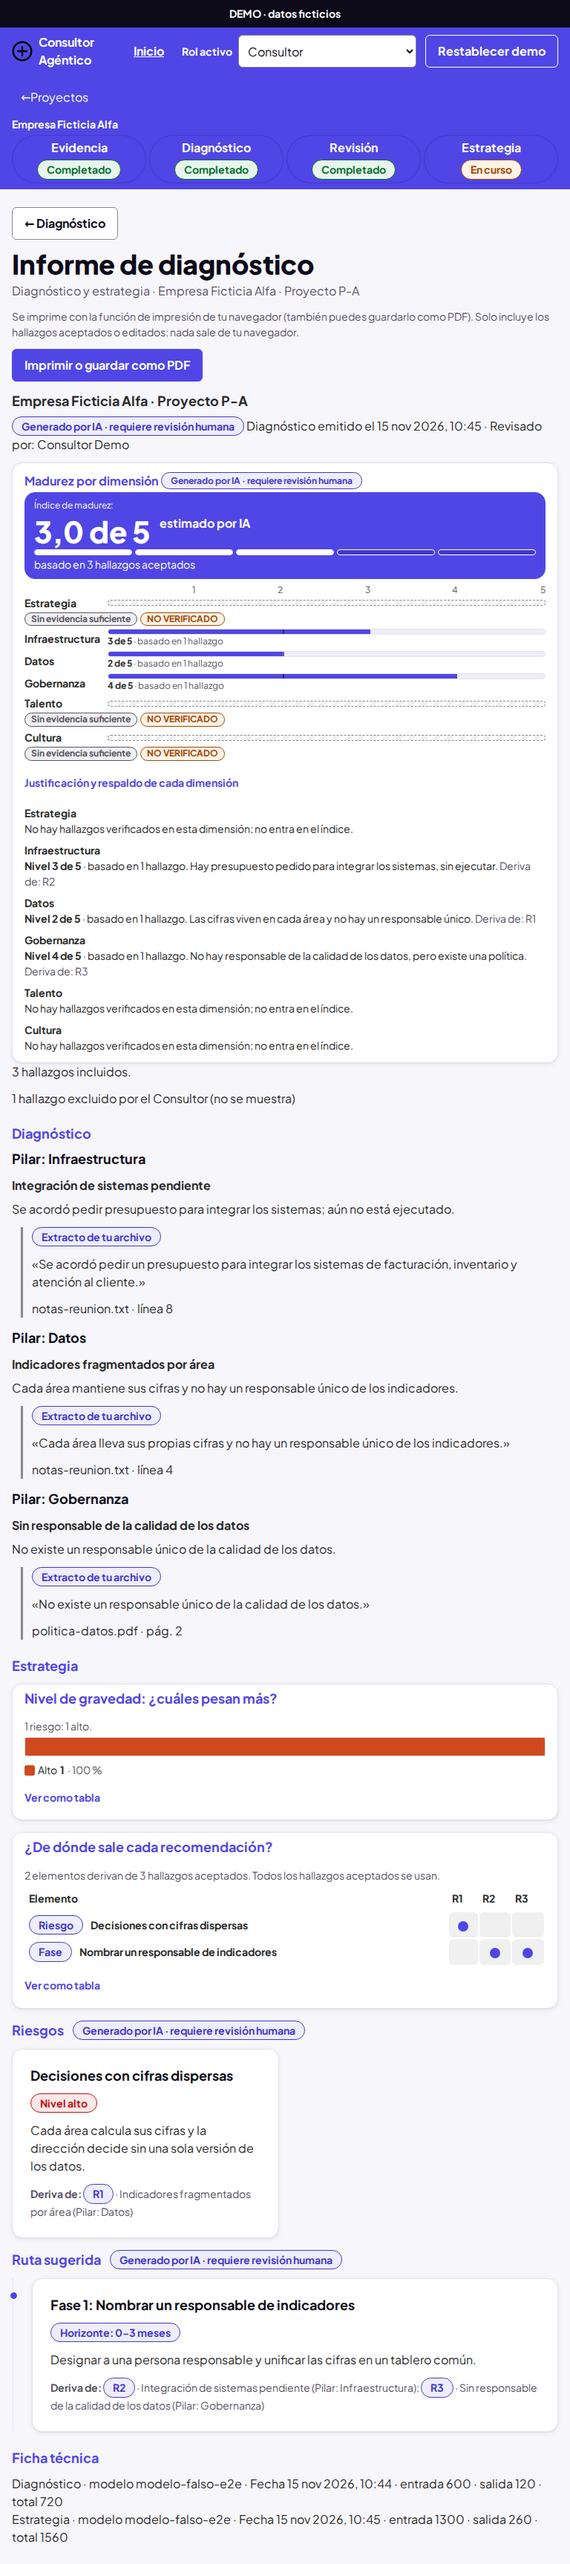
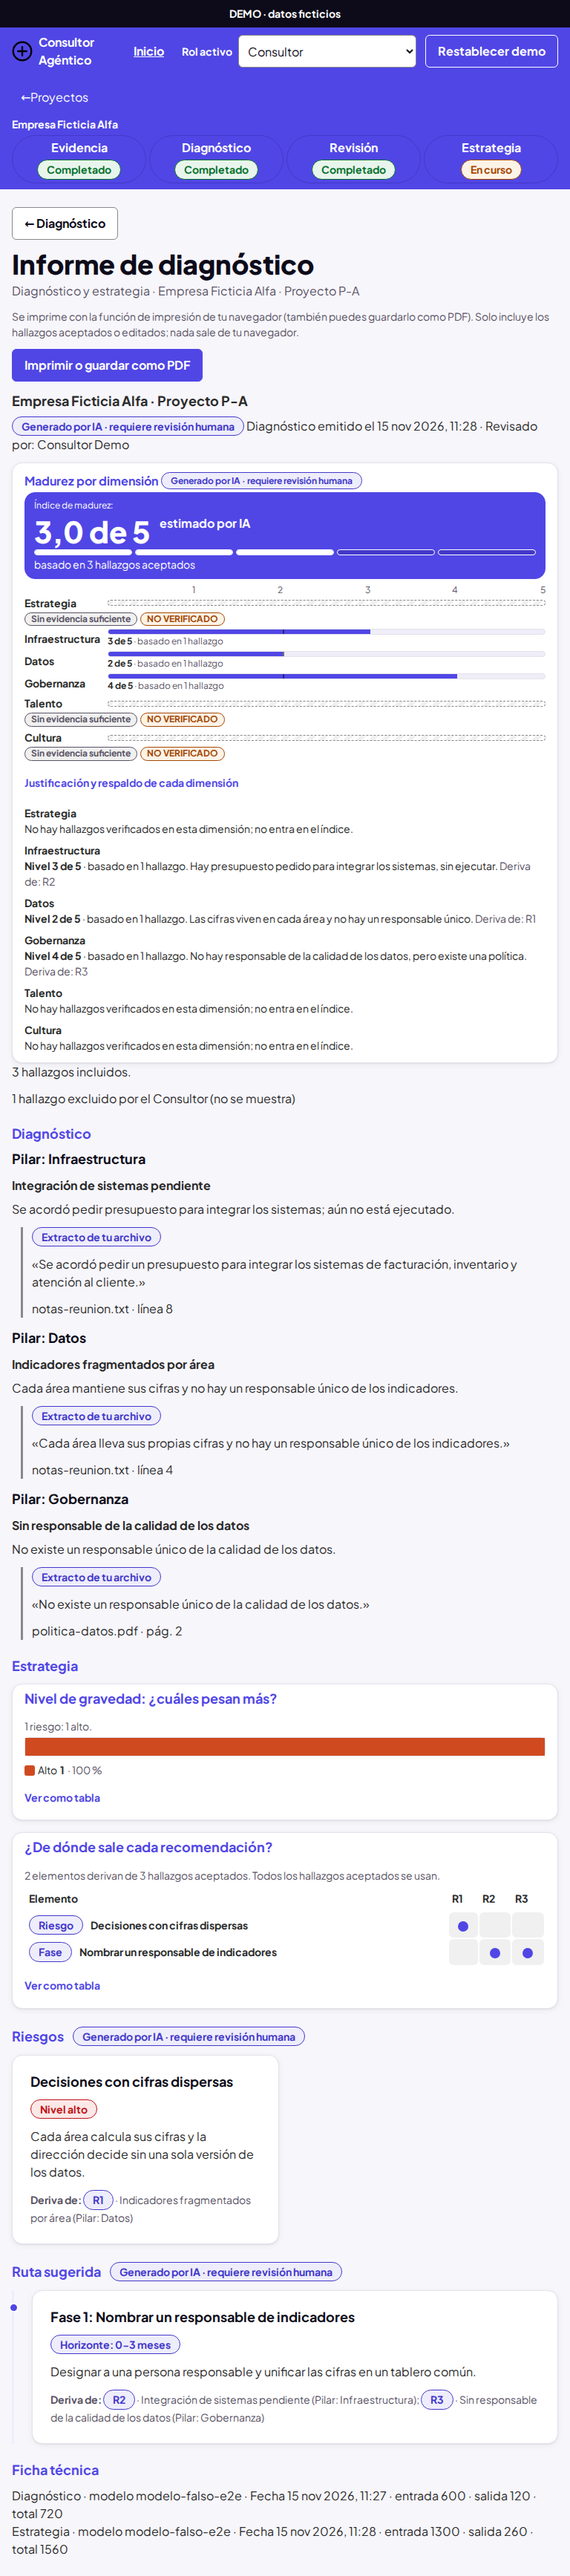
style: ritmo vertical entre bloques y correcciones de revisión de H3

diff --git a/tests/e2e/ia-real-h3espacio.spec.ts b/tests/e2e/ia-real-h3espacio.spec.ts
@@ -1,0 +1,78 @@
+// Micro-lote H3-espacio: el espacio vertical entre bloques apilados nunca baja de 12 px (a 1280). Servicio en modo FALSO.
+import { writeFileSync } from 'node:fs';
+import { expect, test, type Page } from '@playwright/test';
+import { abrir, generarDiagnosticoReal, vaciarServicio } from './helpers/real';
+
+const card = (page: Page, id: string) => page.getByTestId(`finding-${id}`);
+
+/** Bloques visibles (tarjetas, gráficos, cifras y secciones con encabezado) que no están dentro de otro bloque; para cada uno,
+ *  el hueco hasta el bloque siguiente de su misma columna. */
+async function huecos(page: Page) {
+  return page.evaluate(() => {
+    const SEL = '.main .card, .main .chart, .main .review-stats .stats-row, .main .review-stats > .chart, .main .maturity-detail, .main details, .main .pillar-flow > section, .main [data-testid="trace-view"]';
+    const todos = [...document.querySelectorAll(SEL)].filter((e) => {
+      const r = e.getBoundingClientRect();
+      return r.height > 8 && r.width > 40 && !e.closest('.visually-hidden') && getComputedStyle(e).position !== 'absolute';
+    });
+    const bloques = todos.filter((e) => !todos.some((o) => o !== e && o.contains(e)));
+    const nombre = (e: Element) => (e.getAttribute('data-testid') || e.getAttribute('aria-label') || e.className || e.tagName).toString().slice(0, 32);
+    const out: { a: string; b: string; hueco: number }[] = [];
+    for (const a of bloques) {
+      const ra = a.getBoundingClientRect();
+      let mejor: { b: Element; d: number } | null = null;
+      for (const b of bloques) {
+        if (b === a) continue;
+        const rb = b.getBoundingClientRect();
+        const mismaColumna = ra.left < rb.right - 1 && rb.left < ra.right - 1;
+        const d = rb.top - ra.bottom;
+        if (mismaColumna && d >= -1 && (!mejor || d < mejor.d)) mejor = { b, d };
+      }
+      if (mejor) out.push({ a: nombre(a), b: nombre(mejor.b), hueco: Math.round(mejor.d * 10) / 10 });
+    }
+    return out;
+  });
+}
+
+test.beforeEach(async ({ request }) => {
+  await vaciarServicio(request, 'P-A');
+});
+
+async function aEstrategia(page: Page) {
+  await abrir(page, 'P-A', 'revision');
+  for (const id of ['R1', 'R2', 'R3']) await card(page, id).getByRole('button', { name: /^Aceptar/ }).click();
+  await card(page, 'R4').getByRole('button', { name: /^Rechazar/ }).click();
+  await page.getByRole('button', { name: 'Aprobar y emitir' }).click();
+  await page.getByRole('button', { name: 'Sí, aprobar y emitir' }).click();
+  await abrir(page, 'P-A', 'estrategia');
+  await page.getByRole('button', { name: 'Generar estrategia' }).click();
+  await page.getByTestId('strategy-content').waitFor({ timeout: 30_000 });
+}
+
+test('ritmo vertical: entre bloques apilados hay al menos 12 px (Diagnóstico, Revisión y Estrategia a 1280)', async ({ page }) => {
+  await page.setViewportSize({ width: 1280, height: 900 });
+  await generarDiagnosticoReal(page);
+  const pantallas: Record<string, Awaited<ReturnType<typeof huecos>>> = {};
+  pantallas.diagnostico = await huecos(page);
+  await abrir(page, 'P-A', 'revision');
+  await card(page, 'R1').waitFor();
+  pantallas.revision = await huecos(page);
+  await aEstrategia(page);
+  pantallas.estrategia = await huecos(page);
+  for (const [nombre, l] of Object.entries(pantallas)) {
+    expect(l.length, `${nombre}: se midió algún par de bloques`).toBeGreaterThan(0);
+    const malos = l.filter((x) => x.hueco < 12);
+    expect(malos, `${nombre}: bloques pegados (< 12 px): ${JSON.stringify(l)}`).toEqual([]);
+  }
+});
+
+test('la altura de Revisión a 1280 sigue dentro del criterio 1 de H3 (≤ 1877 px)', async ({ page }) => {
+  await page.setViewportSize({ width: 1280, height: 900 });
+  await generarDiagnosticoReal(page);
+  await abrir(page, 'P-A', 'revision');
+  await card(page, 'R1').waitFor();
+  await page.waitForTimeout(200);
+  const alto = await page.evaluate(() => document.documentElement.scrollHeight);
+  const l = await huecos(page);
+  writeFileSync(`docs/evidencia/h3espacio-medidas${process.env.H3_ANTES ? '-antes' : ''}.json`, JSON.stringify({ alturaRevision1280: alto, huecosRevision: l }, null, 2));
+  expect(alto, `altura de Revisión a 1280: ${alto}`).toBeLessThanOrEqual(1877);
+});

diff --git a/src/styles/h3.css b/src/styles/h3.css
@@ -63,7 +63,7 @@
 
 /* ---------- Cifras compactas ---------- */
 .review-stats .stats-row { grid-template-columns: repeat(auto-fit, minmax(5.5rem, 1fr)); gap: var(--space-2); }
-.review-stats .stat { padding: var(--space-2); }
+.review-stats .stat { padding: var(--space-1) var(--space-2); }
 .review-stats .stat-label { font-size: var(--font-size-xs); }
 
 /* ---------- Gráficos ---------- */
@@ -258,7 +258,8 @@
 .trace-grid { gap: var(--space-4); }
 @media (min-width: 640px) { .trace-grid { grid-template-columns: minmax(0, 3fr) minmax(0, 2fr); } }
 @media (max-width: 479px) { .trace-bars .ranked-row { grid-template-columns: minmax(0, 1fr) 2.5rem; } }
-.trace-bars .ranked-row { grid-template-columns: minmax(0, 1fr) 2.5rem; row-gap: 0; margin-bottom: var(--space-2); }
+.trace-bars { align-content: start; }
+.trace-bars .ranked-row { grid-template-columns: minmax(0, 1fr) 2.5rem; row-gap: 0; margin-bottom: var(--space-2); align-content: start; }
 .trace-bars .ranked-name { grid-column: 1 / -1; white-space: nowrap; overflow: hidden; text-overflow: ellipsis; }
 .trace-bars .ranked-name { overflow-wrap: normal; word-break: normal; }
 .trace-figures { display: grid; gap: var(--space-3); align-content: start; padding-left: var(--space-4); border-left: 1px solid var(--color-border-subtle); }
@@ -271,3 +272,16 @@
 .dots th .badge { margin-inline-end: var(--space-2); }
 /* La cola muestra como máximo 3 tarjetas y un enlace a todas; no hay desplazamiento interno */
 @media (min-width: 1024px) { .dash-split { align-items: start; } }
+
+/* ---------- H3-espacio: ritmo vertical único ---------- */
+/* Una sola regla para las zonas: 16 px entre bloques; 24 px antes de una sección. Sustituye a los huecos sueltos de cada pantalla. */
+.split-main, .split-side, .stack, .review-stats, [data-testid='strategy-content'], .strategy-charts { display: grid; row-gap: var(--rhythm-block); }
+.review-stats .stats-row { margin: 0; }
+.split-main > :is(section, .pillar-flow), .stack > :is(section, .pillar-flow), [data-testid='strategy-content'] > section { margin-top: calc(var(--rhythm-section) - var(--rhythm-block)); }
+/* Cuerpo de las pantallas que cuelga directamente de <main> (Estrategia, Informe): un bloque tras otro */
+.main > :is(.card, .chart, details, [data-testid='mode-selector'], [data-testid='trace-view'], [data-testid^='chart-']) + :is(.card, .chart, div, details, section, [data-testid='trace-view']) { margin-top: var(--rhythm-block); }
+.main > * + :is(.chart, [data-testid='trace-view'], [data-testid^='chart-']) { margin-top: var(--rhythm-block); }
+/* Celdas de mapa y matriz al mínimo táctil del brief (24 px): compensa el aire nuevo entre bloques sin pasar la altura de Revisión */
+.heat-cell, .dots-cell { height: 24px; }
+.heat th { padding-block: 0; }
+.pillar-flow { gap: var(--rhythm-block); }

diff --git a/tests/e2e/ia-real-h3espacio-capturas.spec.ts b/tests/e2e/ia-real-h3espacio-capturas.spec.ts
@@ -1,0 +1,21 @@
+// Micro-lote H3-espacio: capturas a 1280 (docs/evidencia/h3espacio-*.png). Servicio en modo FALSO.
+import { test } from '@playwright/test';
+import { abrir, generarDiagnosticoReal, vaciarServicio } from './helpers/real';
+
+test('capturas de H3-espacio', async ({ page, request }) => {
+  test.setTimeout(120_000);
+  await vaciarServicio(request, 'P-A');
+  await page.setViewportSize({ width: 1280, height: 900 });
+  await generarDiagnosticoReal(page);
+  await page.screenshot({ path: 'docs/evidencia/h3espacio-diagnostico-1280.png', fullPage: true });
+  await abrir(page, 'P-A', 'revision');
+  for (const id of ['R1', 'R2', 'R3']) await page.getByTestId(`finding-${id}`).getByRole('button', { name: /^Aceptar/ }).click();
+  await page.getByTestId('finding-R4').getByRole('button', { name: /^Rechazar/ }).click();
+  await page.screenshot({ path: 'docs/evidencia/h3espacio-revision-1280.png', fullPage: true });
+  await page.getByRole('button', { name: 'Aprobar y emitir' }).click();
+  await page.getByRole('button', { name: 'Sí, aprobar y emitir' }).click();
+  await abrir(page, 'P-A', 'estrategia');
+  await page.getByRole('button', { name: 'Generar estrategia' }).click();
+  await page.getByTestId('strategy-content').waitFor({ timeout: 30_000 });
+  await page.screenshot({ path: 'docs/evidencia/h3espacio-estrategia-1280.png', fullPage: true });
+});

diff --git a/src/styles/tokens.css b/src/styles/tokens.css
@@ -60,6 +60,8 @@
   --space-4: 1rem;
   --space-5: 1.5rem;
   --space-6: 2rem;
+  --rhythm-block: var(--space-4); /* ritmo vertical: entre bloques de una misma zona (16 px) */
+  --rhythm-section: var(--space-5); /* y entre secciones (24 px) */
   --radius: 10px;
   --radius-sm: 6px;
   --target-min: 44px;

diff --git a/specs/002-agente-real/tasks.md b/specs/002-agente-real/tasks.md
@@ -386,6 +386,7 @@ En todos los casos: spec → plan → tareas antes del código, y constancia en 
 - [X] T234 [H3-fix] Tablero: la barra de avance de la fila tenía ancho 0 (defecto real) y ahora se ve con su porcentaje; «Equipo N» en una línea; cola de revisión con máximo 3 tarjetas y enlace «Ver las N entregas por revisar» a `#/lider/entregas`, sin desplazamiento interno (`ReviewQueue` recibe `limit` solo en el Tablero)
 - [X] T235 [H3-fix] Resumen de la traza: barras a la izquierda y tres cifras con rótulo a la derecha; el nombre de la herramienta va sobre su barra y no se parte
 - [X] T236 [H3-fix] Espacios: chips del resumen del Diagnóstico separados (flex con espacio) y margen entre «Riesgo/Fase» y su título en la matriz (prueba ≥ 8 px; sin el margen mide 2 px y falla)
+- [X] T237 [H3-espacio] Ritmo vertical con tokens (`--rhythm-block` 16 px, `--rhythm-section` 24 px) en una sola regla sobre las zonas principal y lateral; prueba de pantalla (≥ 12 px entre bloques en Diagnóstico, Revisión y Estrategia a 1280) con mutación; altura de Revisión a 1280: 1847 px antes y 1847 px después (límite 1877)
 - [ ] T229 [PERSONA] Revisión humana del lote H3, `build && check` con la lista de nombres y commit
 
 ---
